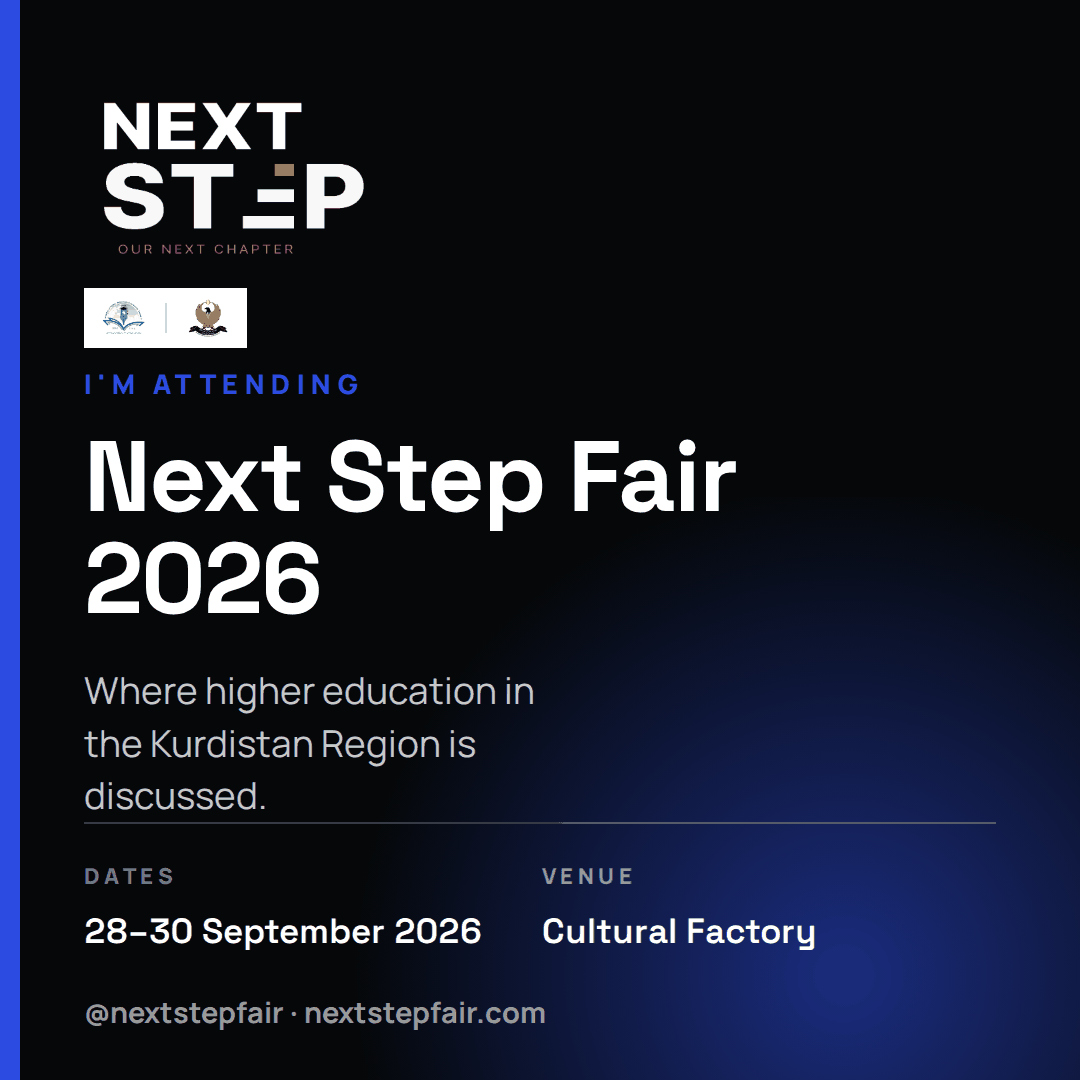
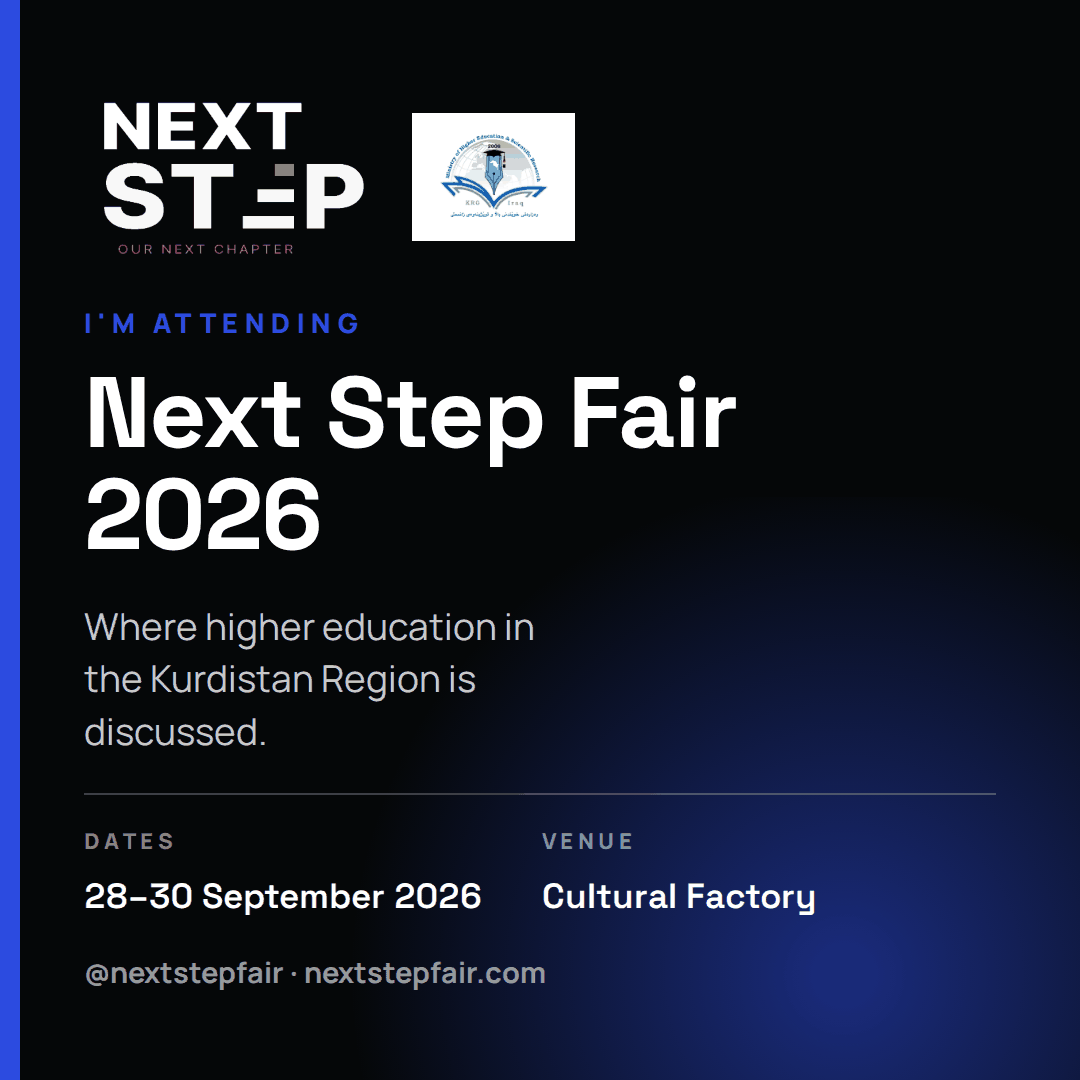
Draw the partners at a strategic partner's size
The marks were there but small — a credit line, not a partnership. They now
stand beside the Next Step wordmark at roughly half its height, on one row, on
the card and on the badge alike. The Kurdistan Regional Government mark comes
off both: the Ministry speaks for the government side, and a lockup that grows
with every partner stops being a lockup. The footer strip and the sponsors page
still carry everybody.

Beside rather than beneath, because at this size a stacked panel pushed the
headline off the card, and a row costs no height at all — it is as tall as the
wordmark was on its own.

That took the top corner the attendee's name was drawn in, so the name has
moved to the bottom corner the marks vacated, onto the line with the handle,
where a signature belongs. Its baselines are the handle's own, measured in the
browser, and its widths are what is left on that line beside it.

One thing found while measuring: the card's column was taller than its padding
box, so space-between had stopped doing anything and the footer floated at a
different height in each language — 994 in English, 1039 in Kurdish. Invisible
until something has to be drawn onto the finished picture at one fixed height
for every language. The column now fits, and the footer lands on the padding
line in all three.

The badge's QR also outgrew its white quiet zone by ten pixels when everything
below the marks moved down. A QR that touches the ink at one edge is a QR that
sometimes does not scan.
[…]

Changed region(s): [[0.0611, 0.2444, 0.9167, 0.9472], [0.3667, 0.0917, 0.55, 0.2444], [0.2444, 0.1528, 0.275, 0.1833]]

diff --git a/resources/js/share-card.js b/resources/js/share-card.js
@@ -49,7 +49,7 @@ export default function shareCard() {
 
         if (name) {
             // The card is right-to-left in Kurdish and Arabic, so the name sits
-            // in the corner opposite the wordmark either way.
+            // in the corner opposite the handle either way.
             const rtl = document.documentElement.dir === 'rtl';
 
             // Wait for the webfont, or the first paint measures a fallback face

diff --git a/resources/views/share/card.blade.php b/resources/views/share/card.blade.php
@@ -98,10 +98,12 @@
             display: flex;
             flex-direction: column;
             justify-content: center;
-            /* Zero on the square and wide cards: the partnership panel above
-               costs real height there, and with justify-content: center the
-               block still breathes whenever there is slack to breathe into. */
-            padding-block: {{ $story ? 34 : 0 }}px;
+            /* Trimmed so the block below actually reaches the bottom padding:
+               once the column overflows its box, space-between stops working
+               and the footer floats at a different height in each language —
+               and the name drawn onto the finished picture sits at one fixed
+               height for all of them. */
+            padding-block: {{ $story ? 34 : ($wide ? 8 : 12) }}px;
         }
 
         .kicker {
@@ -110,7 +112,7 @@
             letter-spacing: 0.24em;
             text-transform: uppercase;
             color: {{ $accent }};
-            margin-bottom: {{ $story ? 28 : ($wide ? 12 : 22) }}px;
+            margin-bottom: {{ $story ? 28 : ($wide ? 12 : 18) }}px;
         }
 
         h1 {
@@ -134,7 +136,7 @@
             display: flex;
             gap: {{ $wide ? 44 : 60 }}px;
             flex-wrap: wrap;
-            padding-top: {{ $story ? 42 : ($wide ? 22 : 36) }}px;
+            padding-top: {{ $story ? 42 : ($wide ? 20 : 30) }}px;
             border-top: 2px solid rgba(255, 255, 255, 0.22);
         }
 
@@ -170,44 +172,47 @@
             display: flex;
             align-items: center;
             gap: 30px;
-            margin-top: {{ $story ? 46 : ($wide ? 18 : 34) }}px;
+            margin-top: {{ $story ? 46 : ($wide ? 16 : 28) }}px;
         }
 
         .handle { font-size: {{ $story ? 34 : ($wide ? 21 : 29) }}px; font-weight: 700; color: rgba(255, 255, 255, 0.6); }
 
         /*
-         * The wordmark and the partnership marks, stacked at the top of the card.
+         * The lockup: our wordmark and the strategic partners' marks, side by
+         * side on one row at the top of the card.
          *
-         * They used to sit in the bottom corner, where a feed thumbnail crops
-         * them off and nobody reads them. Up here they are under the name of the
-         * thing they are backing, which is where a partner expects to be — and
-         * the corner opposite stays clear for the attendee's name, drawn on
-         * afterwards by the browser.
+         * Beside rather than beneath, for two reasons. These are strategic
+         * partners, so they are drawn at the wordmark's own weight rather than
+         * as a credit line — stacked at that size they pushed the headline off
+         * the card. And a row costs no height at all: it is as tall as the
+         * wordmark was on its own.
          *
-         * align-items rather than text-align: this is a flex column, and a bare
-         * block child stretches to its full width, which turns both the wordmark
-         * and the white panel into full-width bars.
+         * The marks used to sit in the bottom corner, which is the part a feed
+         * thumbnail crops. The attendee's name has gone there instead, drawn on
+         * afterwards by the browser: it is one line, it survives the crop, and
+         * it belongs next to the handle.
          */
         .head {
             display: flex;
-            flex-direction: column;
-            align-items: flex-start;
-            gap: {{ $story ? 34 : ($wide ? 12 : 20) }}px;
-            /* A little air under the panel: on the wide card the middle
-               block fills its space, so nothing else separates the two. */
-            margin-bottom: {{ $story ? 0 : ($wide ? 10 : 16) }}px;
+            align-items: center;
+            gap: {{ $story ? 34 : ($wide ? 22 : 28) }}px;
         }
 
         .partners {
             display: flex;
             align-items: center;
-            gap: {{ $wide ? 12 : 18 }}px;
+            gap: {{ $story ? 24 : ($wide ? 14 : 20) }}px;
             background: #fff;
-            padding: {{ $story ? '14px 20px' : ($wide ? '8px 12px' : '11px 16px') }};
+            padding: {{ $story ? '20px 26px' : ($wide ? '12px 16px' : '16px 22px') }};
         }
 
-        .partners img { height: {{ $story ? 58 : ($wide ? 28 : 38) }}px; width: auto; display: block; }
-        .partners .rule { width: 2px; height: {{ $story ? 46 : ($wide ? 22 : 30) }}px; background: rgba(5, 7, 8, 0.18); }
+        /*
+         * Sized against the wordmark beside them, not against the body text.
+         * Roughly half its height, which is what a mark of a different shape
+         * needs to read as its equal rather than as a footnote.
+         */
+        .partners img { height: {{ $story ? 124 : ($wide ? 66 : 96) }}px; width: auto; display: block; }
+        .partners .rule { width: 2px; height: {{ $story ? 96 : ($wide ? 50 : 74) }}px; background: rgba(5, 7, 8, 0.18); }
     </style>
 </head>
 <body>

diff --git a/app/Services/ShareKit.php b/app/Services/ShareKit.php
@@ -204,10 +204,17 @@ class ShareKit
     /**
      * Where the person's name is drawn on the finished card, in image pixels.
      *
-     * The top corner opposite the wordmark, which is empty on all three cards by
-     * design. Absolute rather than tied to the layout, so the browser drawing it
-     * and the card behind it cannot drift apart — and one definition, read by
-     * both the page and the script.
+     * The bottom corner opposite the handle. It used to be the top corner, until
+     * the partnership marks came up to the top row at the size a strategic
+     * partner is due and took that space; down here the name sits on the line
+     * with @nextstepfair, which is where a signature belongs anyway.
+     *
+     * `x` is the inset from the outer edge and `y` the baseline, so the same two
+     * numbers work in Kurdish and Arabic, where the card is mirrored.
+     *
+     * Absolute rather than tied to the layout, so the browser drawing it and the
+     * card behind it cannot drift apart — and one definition, read by both the
+     * page and the script.
      *
      * The name goes on in the browser rather than being baked in. It has to:
      * there are as many names as there are people, and a Kurdish or Arabic one
@@ -220,9 +227,11 @@ class ShareKit
     public static function nameSlot(string $format): array
     {
         return match ($format) {
-            self::FORMAT_STORY => ['width' => 1080, 'height' => 1920, 'x' => 92, 'y' => 214, 'size' => 40, 'max' => 560],
-            self::FORMAT_OG => ['width' => 1200, 'height' => 630, 'x' => 64, 'y' => 92, 'size' => 30, 'max' => 460],
-            default => ['width' => 1080, 'height' => 1080, 'x' => 84, 'y' => 140, 'size' => 36, 'max' => 520],
+            // The baselines are the handle's own, measured in the browser, and
+            // the widths are what is left on that line beside it.
+            self::FORMAT_STORY => ['width' => 1080, 'height' => 1920, 'x' => 92, 'y' => 1757, 'size' => 34, 'max' => 320],
+            self::FORMAT_OG => ['width' => 1200, 'height' => 630, 'x' => 64, 'y' => 568, 'size' => 24, 'max' => 380],
+            default => ['width' => 1080, 'height' => 1080, 'x' => 84, 'y' => 981, 'size' => 30, 'max' => 400],
         };
     }
 

diff --git a/app/Services/BadgeService.php b/app/Services/BadgeService.php
@@ -169,26 +169,26 @@ class BadgeService
         imagefilledrectangle($image, 56, 156, 56 + (int) (strlen($chip) * 13) + 32, 200, $white);
         $write($chip, 13, 72, 187, true, $ink);
 
-        $this->drawMarks($image, 56, 212, 36);
+        // Strategic partners, so the marks are drawn at a size that reads as
+        // one — which moves everything below them down, including the QR.
+        $this->drawMarks($image, 56, 210, 72);
 
-        // 304 rather than 296: the panel above ends at 264, and a 30pt name has
-        // ascenders that reached into it.
-        $write($registration->full_name, mb_strlen($registration->full_name) > 26 ? 24 : 30, 56, 304, true);
+        $write($registration->full_name, mb_strlen($registration->full_name) > 26 ? 24 : 30, 56, 336, true);
 
         if ($registration->isConference()) {
-            $write((string) $registration->organization, 16, 56, 342, true);
+            $write((string) $registration->organization, 16, 56, 372, true);
             if ($registration->position) {
-                $write((string) $registration->position, 14, 56, 372);
+                $write((string) $registration->position, 14, 56, 400);
             }
         } else {
-            $write(trim($registration->city.' · '.$registration->daysLabel(), ' ·'), 14, 56, 342);
+            $write(trim($registration->city.' · '.$registration->daysLabel(), ' ·'), 14, 56, 372);
         }
 
         // White quiet zone behind the QR, as scan reliability requires.
         $qrPng = $this->qr->png($this->tickets->verifyUrl($registration), 460);
         $qrImage = imagecreatefromstring($qrPng);
-        imagefilledrectangle($image, 56, 396, 616, 956, $white);
-        imagecopyresampled($image, $qrImage, 86, 426, 0, 0, 500, 500, imagesx($qrImage), imagesy($qrImage));
+        imagefilledrectangle($image, 56, 420, 596, 960, $white);
+        imagecopyresampled($image, $qrImage, 86, 450, 0, 0, 480, 480, imagesx($qrImage), imagesy($qrImage));
 
         $write('TICKET '.$registration->ticket_ref, 13, 56, 1004, true);
         $write(ns_event_dates().' · '.config('nextstep.event.venue.name').', '.config('nextstep.event.venue.city'), 11, 56, 1034);

diff --git a/app/Support/helpers.php b/app/Support/helpers.php
@@ -433,15 +433,20 @@ if (! function_exists('ns_brand')) {
 
 if (! function_exists('ns_partner_marks')) {
     /**
-     * The partnership lockup — the marks, in the order they are always shown.
+     * The strategic lockup — the two marks that stand beside the Next Step one.
      *
-     * One definition, because these appear on the header, the footer, the card
-     * people post and the badge people carry, and a partner shown in one place
-     * and missed in another is the kind of thing a ministry notices. Adding a
-     * partner is a line here rather than an edit in four templates.
+     * The Ministry and the Students Association, in that order, and drawn at a
+     * size that reads as a partnership rather than as a credit line. This is the
+     * same pair as the site header, and it is deliberately not the full partner
+     * list: the footer strip and the sponsors page carry everybody, and a lockup
+     * that grows with each new partner stops being a lockup.
+     *
+     * One definition, because these appear on the card people post and the badge
+     * people wear, and a partner shown in one place and missed in the other is
+     * the kind of thing a ministry notices.
      *
      * A mark with nothing uploaded and nothing shipped is left out entirely: a
-     * broken image where a ministry's logo should be is worse than a gap.
+     * broken image where a partner's logo should be is worse than a gap.
      *
      * @return list<array{slug: string, src: string, name: string}>
      */
@@ -449,7 +454,6 @@ if (! function_exists('ns_partner_marks')) {
     {
         $marks = [
             ['slug' => 'mohe', 'src' => ns_brand('mohe', 'assets/brand/mohe.png'), 'name' => __('site.header.mohe')],
-            ['slug' => 'krg', 'src' => ns_brand('krg', 'assets/brand/krg.png'), 'name' => __('site.header.krg_alt')],
             ['slug' => 'ksa', 'src' => ns_brand('ksa'), 'name' => __('site.header.ksa')],
         ];
 

diff --git a/resources/views/badges/badge.blade.php b/resources/views/badges/badge.blade.php
@@ -30,9 +30,9 @@
          * mark any more. inline-block rather than flex — DomPDF has neither flex
          * nor grid, and this file is the printed badge as well as the picture.
          */
-        .partners { background: #ffffff; padding: 1.6mm 2.4mm; margin-top: 5mm; }
-        .partners img { height: 7mm; width: auto; vertical-align: middle; }
-        .partners .rule { display: inline-block; width: 0.4mm; height: 5.5mm; background: rgba(5, 7, 8, 0.18); vertical-align: middle; margin: 0 2mm; }
+        .partners { background: #ffffff; padding: 2.4mm 3mm; margin-top: 5mm; }
+        .partners img { height: 13mm; width: auto; vertical-align: middle; }
+        .partners .rule { display: inline-block; width: 0.4mm; height: 10mm; background: rgba(5, 7, 8, 0.18); vertical-align: middle; margin: 0 2.5mm; }
 
         .name { font-size: {{ mb_strlen($registration->full_name) > 26 ? '15pt' : '19pt' }}; font-weight: bold; line-height: 1.05; margin-top: 6mm; }
         .institution { font-size: 10pt; font-weight: bold; line-height: 1.3; margin-top: 2mm; }
